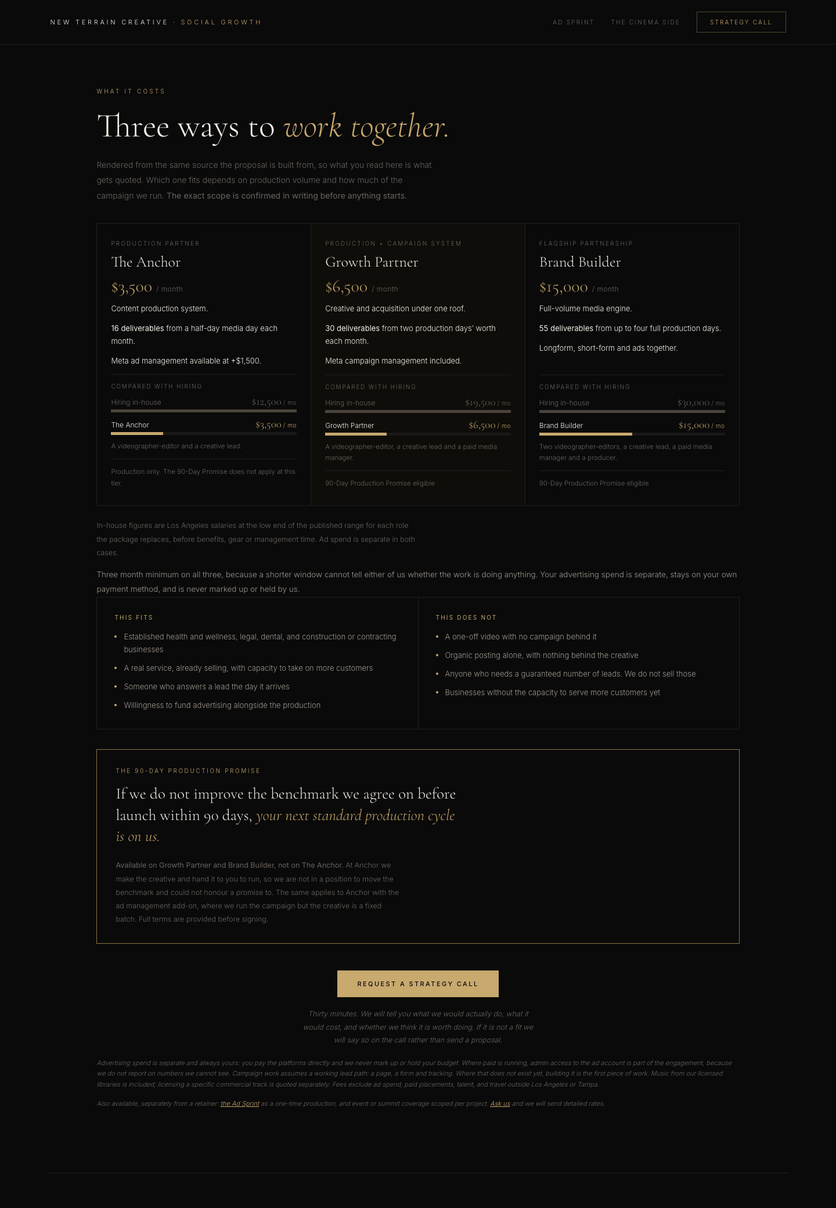
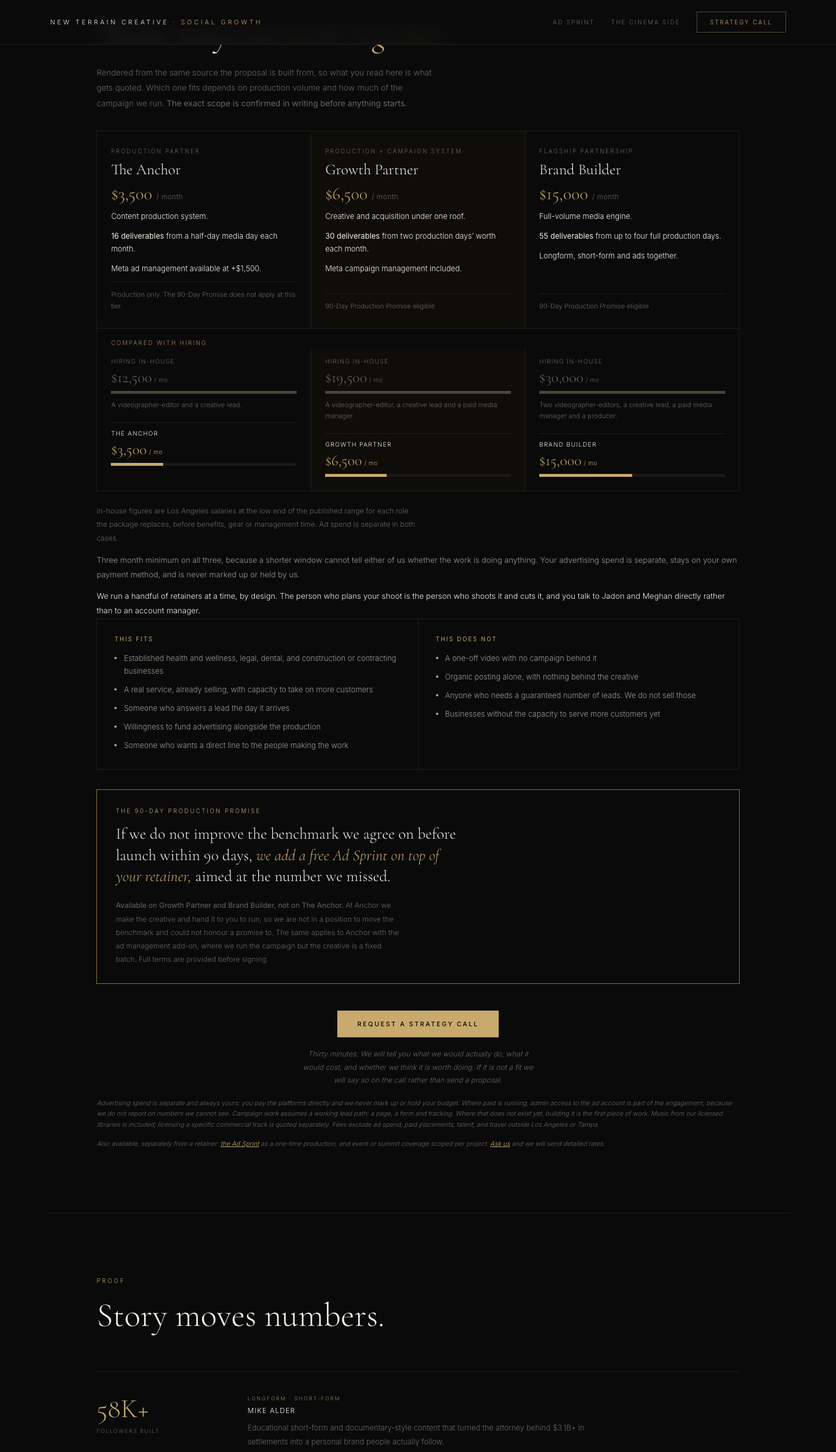
Say boutique on purpose, move the hiring comparison under the cards, make the promise pay out in a Sprint
Three changes to /grow and the homepage.

Boutique by design. The homepage comparison table gains a row against
the agency ("one of forty accounts") answered by "a handful of clients
at a time, on purpose"; /grow states the same under the pricing notes,
paired with the mechanism (the person who plans the shoot shoots and
cuts it, no account manager), and the fit block asks for someone who
wants a direct line. Declared in offer.js as `boutique`, with the two
copy rules and the list of mechanisms that are true today. The retainer
ceiling stays unquantified until there is one we will hold.

Hiring comparison out of the tier cards. Inside the card the payroll
figure read as part of the package. It now renders as its own strip
under the grid, one column per tier, stacked: what hiring costs, then
the package and our price. The heading sits outside the grid so the
strip keeps the cards' column count at every width.

Promise remedy. "Your next standard production cycle is on us" was a
free month of production, at Brand Builder four days and 55 pieces. The
remedy is now one Ad Sprint at The Eight scope, on top of the retainer,
aimed at the missed benchmark, on both eligible tiers. Changed in
offer.js, /grow, /about and the terms draft, where it also closes the
open question on a maximum value: a defined product caps itself.

diff --git a/grow.html b/grow.html
@@ -426,25 +426,40 @@
   .tier-line b { color: var(--parchment); font-weight: 400; }
   .tier-meta { margin-top: auto; padding-top: 12px; border-top: 1px solid var(--line); font-size: 11.5px; line-height: 1.7; color: var(--muted); }
   .tier-promise { color: var(--gold-dim); }
-  /* Compared with hiring, rendered from offer.js inHouse.teams. A
-     two-row ledger with bars scaled to the amounts, so the payroll
-     figure reads as the thing our price is measured against, not as a
-     second price. Payroll row dim, our row gold. */
-  .cmp { margin-top: auto; padding-top: 14px; border-top: 1px solid var(--line); display: flex; flex-direction: column; gap: 10px; }
-  .cmp-k { font-size: 10px; letter-spacing: .18em; text-transform: uppercase; color: var(--muted); }
-  .cmp-row { display: grid; grid-template-columns: 1fr auto; align-items: baseline; row-gap: 5px; column-gap: 12px; }
-  .cmp-label { font-size: 12px; color: var(--muted); }
-  .cmp-amt { font-family: var(--display); font-size: 19px; font-weight: 300; line-height: 1; color: var(--muted); white-space: nowrap; }
-  .cmp-amt small { font-family: var(--body); font-size: 10px; letter-spacing: .06em; margin-left: 3px; }
-  .cmp-bar { grid-column: 1 / -1; height: 5px; background: #1a1815; position: relative; }
+  /* Compared with hiring, rendered from offer.js inHouse.teams into a
+     strip of its own directly under the tier grid, one column per tier.
+     It used to sit inside each card, where the payroll figure read as
+     part of the package. Each column stacks: what hiring costs, then the
+     package name, then our price. Payroll dim, ours gold. */
+  .cmp-grid {
+    display: grid;
+    grid-template-columns: repeat(auto-fit, minmax(240px, 1fr));
+    gap: 1px;
+    background: var(--line);
+    border: 1px solid var(--line);
+    border-top: none;
+  }
+  /* The heading sits outside the grid on purpose: a spanning cell would
+     force the track count up and the columns would stop lining up under
+     the tier cards. Kept out of the grid, both use the same auto-fit rule
+     and so always agree on the column count. */
+  .cmp-head { background: var(--black); border: 1px solid var(--line); border-top: none; border-bottom: none; padding: 18px 24px 4px; font-size: 10px; letter-spacing: .22em; text-transform: uppercase; color: var(--gold); opacity: .8; }
+  .cmp-col { background: var(--black); padding: 16px 24px 24px; display: flex; flex-direction: column; gap: 6px; }
+  .cmp-col--mid { background: #0f0d09; }
+  .cmp-label { font-size: 10.5px; letter-spacing: .12em; text-transform: uppercase; color: var(--muted); }
+  .cmp-amt { font-family: var(--display); font-size: 26px; font-weight: 300; line-height: 1; color: var(--muted); white-space: nowrap; margin-top: 2px; }
+  .cmp-amt small { font-family: var(--body); font-size: 10px; letter-spacing: .06em; margin-left: 4px; text-transform: none; }
+  .cmp-bar { height: 5px; background: #1a1815; position: relative; margin-top: 4px; }
   .cmp-bar::after { content: ''; position: absolute; top: 0; left: 0; bottom: 0; width: var(--w, 0%); background: #4a443b; }
-  .cmp-row--us .cmp-label { color: var(--parchment); }
-  .cmp-row--us .cmp-amt { color: var(--gold); }
-  .cmp-row--us .cmp-bar::after { background: var(--gold); }
-  .cmp-why { font-size: 11.5px; line-height: 1.65; color: var(--muted); }
-  .cmp + .tier-meta { margin-top: 0; }
+  .cmp-why { font-size: 11.5px; line-height: 1.65; color: var(--muted); margin-top: 4px; }
+  .cmp-us { margin-top: 14px; padding-top: 12px; border-top: 1px solid var(--line); display: flex; flex-direction: column; gap: 6px; }
+  .cmp-us .cmp-label { color: var(--parchment); }
+  .cmp-us .cmp-amt { color: var(--gold); }
+  .cmp-us .cmp-bar::after { background: var(--gold); }
+  @media (max-width: 720px) { .cmp-col { padding: 14px 20px 22px; } .cmp-head { padding: 16px 20px 2px; } }
   .anchor-basis { margin: 22px 0 0; font-size: 12.5px; line-height: 1.85; color: var(--muted); max-width: 72ch; }
   .anchor-basis + .invest-note { margin-top: 14px; }
+  .invest-note--boutique { margin-top: 12px; color: var(--parchment); }
   @media (max-width: 720px) { .tier { padding: 24px 20px; } }
 
   .invest-fit {
@@ -1530,13 +1545,21 @@
        object /growth-guide reads. One definition, two depths: this page
        qualifies, the guide closes. Do not hard-code a figure here. -->
   <div class="tiers reveal" id="tiers"></div>
+  <!-- Compared with hiring: rendered by the same script as the cards,
+       one column per tier, from assets/offer.js inHouse. -->
+  <div class="cmp-grid reveal" id="tiers-cmp"></div>
 
-  <!-- The "hired in-house" figure on each card is what the same output
-       costs as payroll. Figures come from assets/offer.js inHouse; the
-       basis is stated here so nobody has to guess what they include. -->
+  <!-- The basis of the in-house figures is stated here so nobody has to
+       guess what they include. -->
   <p class="anchor-basis reveal">In-house figures are Los Angeles salaries at the low end of the published range for each role the package replaces, before benefits, gear or management time. Ad spend is separate in both cases.</p>
 
   <p class="invest-note reveal">Three month minimum on all three, because a shorter window cannot tell either of us whether the work is doing anything. Your advertising spend is separate, stays on your own payment method, and is never marked up or held by us.</p>
+
+  <!-- Boutique by design. The claim is paired with its mechanism on
+       purpose (offer.js boutique): the person who plans the shoot is the
+       person who shoots and cuts it, and there is no account manager.
+       "A handful" is unquantified until there is a ceiling we will hold. -->
+  <p class="invest-note invest-note--boutique reveal">We run a handful of retainers at a time, by design. The person who plans your shoot is the person who shoots it and cuts it, and you talk to Jadon and Meghan directly rather than to an account manager.</p>
 
   <div class="invest-fit reveal">
     <div class="invest-fit-col">
@@ -1546,6 +1569,7 @@
         <li>A real service, already selling, with capacity to take on more customers</li>
         <li>Someone who answers a lead the day it arrives</li>
         <li>Willingness to fund advertising alongside the production</li>
+        <li>Someone who wants a direct line to the people making the work</li>
       </ul>
     </div>
     <div class="invest-fit-col">
@@ -1562,7 +1586,7 @@
 
   <div class="promise reveal">
     <div class="promise-head">The 90-Day Production Promise</div>
-    <p class="promise-claim">If we do not improve the benchmark we agree on before launch within 90 days, <em>your next standard production cycle is on us.</em></p>
+    <p class="promise-claim">If we do not improve the benchmark we agree on before launch within 90 days, <em>we add a free Ad Sprint on top of your retainer,</em> aimed at the number we missed.</p>
     <p class="promise-terms"><b>Available on Growth Partner and Brand Builder, not on The Anchor.</b> At Anchor we make the creative and hand it to you to run, so we are not in a position to move the benchmark and could not honour a promise to. The same applies to Anchor with the ad management add-on, where we run the campaign but the creative is a fixed batch. Full terms are provided before signing.</p>
   </div>
 
@@ -1940,31 +1964,41 @@ src="https://www.facebook.com/tr?id=1634935111618929&ev=PageView&noscript=1"></n
       var promise = t.productionPromiseEligible
         ? '<span class="tier-promise">90-Day Production Promise eligible</span>'
         : 'Production only. The 90-Day Promise does not apply at this tier.';
-      // Compared with hiring: a two-row ledger, payroll versus this
-      // package, bars scaled to the payroll total. Keyed by tier name in
-      // offer.js inHouse.teams; a tier without one renders without it.
-      var team = O.inHouse && O.inHouse.teams && O.inHouse.teams[t.name];
-      var anchor = team
-        ? '<div class="cmp">' +
-            '<span class="cmp-k">Compared with hiring</span>' +
-            '<div class="cmp-row"><span class="cmp-label">Hiring in-house</span>' +
-              '<span class="cmp-amt">' + O.fmt(team.teamMonthly) + '<small>/ mo</small></span>' +
-              '<span class="cmp-bar" style="--w:100%"></span></div>' +
-            '<div class="cmp-row cmp-row--us"><span class="cmp-label">' + t.name + '</span>' +
-              '<span class="cmp-amt">' + O.fmt(t.monthly) + '<small>/ mo</small></span>' +
-              '<span class="cmp-bar" style="--w:' + Math.round(t.monthly / team.teamMonthly * 100) + '%"></span></div>' +
-            '<p class="cmp-why">' + team.summary + '.</p>' +
-          '</div>'
-        : '';
       return '<div class="tier' + (i === 1 ? ' tier--mid' : '') + '">' +
                '<div class="tier-label">' + (t.label || '') + '</div>' +
                '<div class="tier-name">' + t.name + '</div>' +
                '<div class="tier-price">' + O.fmt(t.monthly) + ' <span>/ month</span></div>' +
                lines +
-               anchor +
                '<div class="tier-meta">' + promise + '</div>' +
              '</div>';
     }).join('');
+
+    // Compared with hiring. One column per tier, stacked: what the same
+    // output costs as payroll, then the package and our price, bars
+    // scaled to the payroll figure. Keyed by tier name in offer.js
+    // inHouse.teams; if any tier lacks one the strip is not rendered at
+    // all rather than rendered with a hole.
+    var cmpHost = document.getElementById('tiers-cmp');
+    var teams = O.inHouse && O.inHouse.teams;
+    var complete = teams && tiers.every(function (t) { return teams[t.name]; });
+    if (!cmpHost) return;
+    if (!complete) { cmpHost.remove(); return; }
+    cmpHost.insertAdjacentHTML('beforebegin', '<div class="cmp-head">Compared with hiring</div>');
+    cmpHost.innerHTML = tiers.map(function (t, i) {
+        var team = teams[t.name];
+        var w = Math.round(t.monthly / team.teamMonthly * 100);
+        return '<div class="cmp-col' + (i === 1 ? ' cmp-col--mid' : '') + '">' +
+                 '<span class="cmp-label">Hiring in-house</span>' +
+                 '<span class="cmp-amt">' + O.fmt(team.teamMonthly) + '<small>/ mo</small></span>' +
+                 '<span class="cmp-bar" style="--w:100%"></span>' +
+                 '<p class="cmp-why">' + team.summary + '.</p>' +
+                 '<div class="cmp-us">' +
+                   '<span class="cmp-label">' + t.name + '</span>' +
+                   '<span class="cmp-amt">' + O.fmt(t.monthly) + '<small>/ mo</small></span>' +
+                   '<span class="cmp-bar" style="--w:' + w + '%"></span>' +
+                 '</div>' +
+               '</div>';
+      }).join('');
   })();
   (function () {
     if (!window.ntc) return;

diff --git a/about.html b/about.html
@@ -167,7 +167,7 @@ src="https://www.facebook.com/tr?id=1634935111618929&ev=PageView&noscript=1"></n
 <p>Retainer tiers, one-time production prices and the add-on rates are published on the website rather than quoted privately after a discovery call. Retainers are $3,500, $6,500 and $15,000 a month with a three-month minimum term. Each price is published beside what the same output would cost as in-house payroll, using Los Angeles salaries at the low end of the published range for each role, before benefits, gear or management: about $11,500 a month for the two roles behind an Ad Sprint, and about $12,500, $19,500 and $30,000 a month for the teams behind the three retainers.</p>
 
 <h3>A production promise instead of a performance guarantee</h3>
-<p>On the Growth Partner and Brand Builder tiers, if an agreed benchmark is not met across 90 days, the studio delivers one additional production cycle at no cost. The benchmark is chosen before launch and is never total views. No result, revenue or return on ad spend is guaranteed, and the studio says so in writing.</p>
+<p>On the Growth Partner and Brand Builder tiers, if an agreed benchmark is not met across 90 days, the studio adds one Ad Sprint of eight ad creatives at no cost on top of the retainer, aimed at that benchmark. The benchmark is chosen before launch and is never total views. No result, revenue or return on ad spend is guaranteed, and the studio says so in writing.</p>
 
 <h2>Who uses New Terrain Creative</h2>
 <ul>
@@ -209,7 +209,7 @@ src="https://www.facebook.com/tr?id=1634935111618929&ev=PageView&noscript=1"></n
 <p>A one-time Ad Sprint is delivered in under 14 days from shoot to finished assets. Retainer deliverables follow a monthly cycle built around the scheduled media day.</p>
 
 <h3>Communication and access</h3>
-<p>Clients work directly with the founder and the creative strategist rather than through an account manager. Campaign engagements require admin access to the client's ad account and access to lead, appointment and closed-sale outcomes so results can be measured against creative.</p>
+<p>Clients work directly with the founder and the creative strategist rather than through an account manager. The studio is boutique by design: it runs a small number of retainers at a time so that the person who plans a shoot is the person who shoots and cuts it. Campaign engagements require admin access to the client's ad account and access to lead, appointment and closed-sale outcomes so results can be measured against creative.</p>
 
 <h3>Ownership</h3>
 <p>On Ad Sprint engagements the client owns the footage and every cut. On bespoke Signature projects, usage and ownership are agreed in the project scope in writing before production begins.</p>
@@ -235,7 +235,7 @@ src="https://www.facebook.com/tr?id=1634935111618929&ev=PageView&noscript=1"></n
     <tr><th scope="row">Contract terms</th><td>Retainers have a three-month minimum term. The Ad Sprint is one-time with no retainer and no ongoing commitment</td></tr>
     <tr><th scope="row">Minimum ad spend</th><td>$1,500 per month, paid by the client directly to the advertising platform</td></tr>
     <tr><th scope="row">Turnaround</th><td>Ad Sprint delivered in under 14 days</td></tr>
-    <tr><th scope="row">Guarantee</th><td>90-Day Production Promise on Growth Partner and Brand Builder: one additional production cycle at no cost if an agreed pre-set benchmark is missed. No performance, revenue or ROAS guarantee</td></tr>
+    <tr><th scope="row">Guarantee</th><td>90-Day Production Promise on Growth Partner and Brand Builder: one Ad Sprint of eight ad creatives at no cost, on top of the retainer, if an agreed pre-set benchmark is missed. No performance, revenue or ROAS guarantee</td></tr>
     <tr><th scope="row">Communication</th><td>Email and scheduled video calls, directly with the founder and creative strategist</td></tr>
     <tr><th scope="row">Notable work</th><td>Gina Zapanta (podcast and short-form); Mike Alder / AlderTalk (educational short-form and documentary); SWFL Famous Installations (brand content and growth); Off Script (original video podcast)</td></tr>
     <tr><th scope="row">Recognition</th><td>Grand Jury Award, Gasparilla International Film Festival (<i>Off Rip</i>); Lois Weber Best Sci-Fi, FilmQuest (<i>Bot or Not</i>); Official Selections at Tribeca and Telluride</td></tr>
@@ -259,7 +259,7 @@ src="https://www.facebook.com/tr?id=1634935111618929&ev=PageView&noscript=1"></n
 <p>No. The Ad Sprint is a one-time engagement with no retainer and no ongoing commitment. Retainers carry a three-month minimum term.</p>
 
 <h3>Does New Terrain Creative guarantee results?</h3>
-<p>No. No lead volume, revenue or return on ad spend is guaranteed, and the studio states this in writing. On the two highest retainer tiers there is a 90-Day Production Promise: if an agreed benchmark set before launch is missed, one further production cycle is delivered at no cost. It is a promise about the work, never about the client's revenue.</p>
+<p>No. No lead volume, revenue or return on ad spend is guaranteed, and the studio states this in writing. On the two highest retainer tiers there is a 90-Day Production Promise: if an agreed benchmark set before launch is missed, one Ad Sprint of eight ad creatives is added at no cost on top of the retainer. It is a promise about the work, never about the client's revenue.</p>
 
 <h3>Who owns the footage?</h3>
 <p>On Ad Sprint engagements, the client owns the footage and every cut. On bespoke Signature projects, usage and ownership are agreed in the project scope in writing before anything is shot.</p>

diff --git a/assets/offer.js b/assets/offer.js
@@ -103,7 +103,16 @@
     productionPromise: {
       days: 90,
       // A promise about our work, never about the client's revenue.
-      remedy: 'one standard production cycle matching the contracted monthly allocation',
+      //
+      // Changed 26 Sep 2026. Was "one standard production cycle matching
+      // the contracted monthly allocation", which at Brand Builder rates
+      // is a month of four production days given away, and which the
+      // terms draft flagged as needing a cap nobody had set. The remedy
+      // is now a defined product: one Ad Sprint at The Eight scope, on
+      // top of the retainer, pointed at the benchmark that was missed.
+      // Bounded by the published Sprint price, so the cap sets itself.
+      remedy: 'one Ad Sprint (The Eight: 8 ad creatives) at no charge, on top of the contracted monthly allocation, aimed at the missed benchmark',
+      remedyProduct: 'adSprintEight',
       remedyIncludesRevisions: 1,
       isServiceCredit: true,      // never a cash refund
       stacksWithFoundingWaiver: false,
@@ -344,6 +353,38 @@
       resultGuaranteed: false
     },
 
+    /* ── Boutique, by design ──────────────────────────────────────────
+       Added 26 Sep 2026. Positioning decision: we say we are small on
+       purpose rather than hide it. Akoola sells scale, the content farms
+       sell volume; nobody in the lane sells a small roster as the reason
+       to buy. Until we scale, if we decide to, this is how we run.
+
+       Two rules for any copy that uses it. By design, never by default:
+       "a handful of clients at a time, on purpose", never "we are a
+       small business". And always paired with a mechanism from the list
+       below, or it is fluff.
+
+       maxActiveRetainers is null on purpose. A number is stronger, but
+       only one we will hold; a cap we would quietly raise teaches people
+       our caps mean nothing (see the removed application deadline above).
+       Set it when there is a real ceiling, and print it then.
+       ─────────────────────────────────────────────────────────────── */
+    boutique: {
+      byDesign: true,
+      maxActiveRetainers: null,
+      directAccess: ['Jadon Cal Fitzpatrick', 'Meghan Carrasquillo'],
+      accountManager: false,
+      // Mechanisms that are true today. Add to this list before claiming
+      // anything new in copy.
+      mechanisms: [
+        'The person who plans the shoot is the person who shoots and cuts it',
+        'Clients talk to the founder and the creative strategist directly',
+        'The Angle Call before any Sprint shoot',
+        'Monthly analytics and creative direction on every retainer',
+        'Weekly campaign management on Growth Partner and Brand Builder'
+      ]
+    },
+
     // ── Priority industries ───────────────────────────────────────────
     // Used to build the application's industry field. "Other" is accepted
     // but flagged as non-priority rather than hidden.
@@ -432,7 +473,9 @@
       // Withdrawn 13 Sep 2026. It was unbounded, its benchmark was
       // undefined, and it stacked on the Founding waived month. It must
       // not come back in any wording.
-      'a free shoot day if the creative does not beat your baseline'
+      'a free shoot day if the creative does not beat your baseline',
+      // Added 26 Sep 2026 with the boutique block.
+      'a client cap we would raise quietly, or a review cadence a tier does not include'
     ]
   };
 

diff --git a/index.html b/index.html
@@ -2083,13 +2083,14 @@ src="https://www.facebook.com/tr?id=1634935111618929&ev=PageView&noscript=1"></n
   <div class="section-title reveal">Why New Terrain?</div>
   <div class="vs-cols">
     <div class="vs-col reveal">
-      <div class="vs-col-title">The typical video guy</div>
+      <div class="vs-col-title">The typical video guy, or agency</div>
       <ul class="vs-list">
         <li><span class="vs-mark">✕</span>Shoots the footage, hands you a hard drive, disappears</li>
         <li><span class="vs-mark">✕</span>One deliverable per shoot; every cutdown costs extra</li>
         <li><span class="vs-mark">✕</span>You get files, not a plan</li>
         <li><span class="vs-mark">✕</span>A gear renter with a camera and a day rate</li>
         <li><span class="vs-mark">✕</span>Books out weeks ahead, ghosts on fast turnarounds</li>
+        <li><span class="vs-mark">✕</span>At an agency, one of forty accounts, handled by whoever is free that week</li>
       </ul>
     </div>
     <div class="vs-col vs-col--ntc reveal">
@@ -2100,6 +2101,7 @@ src="https://www.facebook.com/tr?id=1634935111618929&ev=PageView&noscript=1"></n
         <li><span class="vs-mark">✓</span>Every project starts knowing what it needs to say and who it needs to move</li>
         <li><span class="vs-mark">✓</span>A working filmmaker: festival wins and a feature streaming on Amazon, Apple, Tubi and Roku</li>
         <li><span class="vs-mark">✓</span>You never chase an edit, write a hook, or manage a freelancer again</li>
+        <li><span class="vs-mark">✓</span>A handful of clients at a time, on purpose. You work with Jadon and Meghan, not an account manager</li>
       </ul>
     </div>
   </div>

diff --git a/docs/terms/90-day-production-promise.md b/docs/terms/90-day-production-promise.md
@@ -10,6 +10,13 @@
 >
 > Drafted 12 September 2026. Supersedes the earlier total-views guarantee,
 > which is withdrawn and must not be reinstated in any form.
+>
+> **Remedy changed 26 September 2026.** Was one standard production
+> cycle matching the contracted monthly allocation. Now one Ad Sprint at
+> The Eight scope, on top of the retainer. A production cycle at Brand
+> Builder rates was a month of four production days given away, and
+> open question 2 below (a cap nobody had set) existed because of it. A
+> defined product bounds the exposure by its published price.
 
 ## 1 · Public language
 
@@ -17,23 +24,26 @@ Headline, verbatim, on `/grow`:
 
 > **THE 90-DAY PRODUCTION PROMISE**
 >
-> If, after 90 consecutive days, the campaign has not improved the primary
-> performance benchmark we agree upon during onboarding, the next standard
-> production cycle is on us.
+> If we do not improve the benchmark we agree on before launch within 90
+> days, we add a free Ad Sprint on top of your retainer, aimed at the
+> number we missed.
 
 Supporting sentence, permitted anywhere the short form is needed:
 
 > If the agreed campaign benchmark does not improve during the first 90
-> days, month four's standard production is on us.
+> days, we add an Ad Sprint, eight ad creatives, at no charge on top of
+> the retainer.
 
 Nothing else may be said publicly about this promise without the full
 terms available alongside it.
 
 ## 2 · What is being promised, in one line
 
-One further production cycle at no charge, if an agreed and measurable
-campaign benchmark has not improved over a complete, properly run 90-day
-period.
+One Ad Sprint at The Eight scope (eight ad creatives from one shoot, in
+every placement), at no charge and on top of the contracted monthly
+allocation, if an agreed and measurable campaign benchmark has not
+improved over a complete, properly run 90-day period. The Sprint is
+briefed against the benchmark that was missed.
 
 It is a promise about **our work**, not about the client's business
 outcome. That distinction is the whole design and every clause below
@@ -116,9 +126,12 @@ period.
 
 ## 5 · The remedy
 
-5.1 One defined standard production cycle, matching the contracted monthly
-production allocation, **subject to a maximum value documented in the
-agreement**.
+5.1 One Ad Sprint at The Eight scope as published on `/sprint` (eight ad
+creatives, one shoot on location, every placement, captions, colour and
+licensed music), delivered **on top of** the contracted monthly production
+allocation, not in place of it, and briefed against the missed benchmark.
+Its maximum value is the published price of The Eight, which serves as
+the documented cap.
 
 5.2 Includes the defined production component and **one** standard
 revision round.
@@ -131,8 +144,9 @@ purchases, and any third-party expense.
 not exchangeable for a fee reduction.
 
 5.5 **Cannot be stacked with the Founding Three waived first month.** A
-Founding Three client has already received a production cycle at no
-service charge; the promise does not entitle them to a second. This must
+Founding Three client has already received a month of production at no
+service charge; the promise does not entitle them to a second round of
+free work. This must
 be stated in the Founding Three agreement as well as here, because it is
 the term a founding client is most likely to be surprised by.
 
@@ -155,9 +169,11 @@ signed. A headline on a web page is not the term; it is a pointer to it.
    arguably in bad faith. A stated threshold is fairer and much harder to
    argue about later. This is a commercial decision before it is a legal
    one.
-2. **Maximum value.** Clause 5.1 requires a documented cap. No figure is
-   set. At Brand Builder rates an uncapped production cycle is a
-   materially different exposure than at Anchor.
+2. ~~**Maximum value.**~~ **Resolved 26 September 2026.** The remedy is
+   now a defined product, one Ad Sprint at The Eight scope, so its cap is
+   the published Sprint price on every tier. Counsel should confirm the
+   agreement references the scope by name rather than by price, so a
+   later price change does not reopen the term.
 3. **Who judges.** Nothing says who determines whether conditions 4.1 to
    4.6 were met, or what happens when the parties disagree.
 4. **Qualified.** Two eligible benchmarks turn on "qualified" leads. That

diff --git a/docs/pricing/package-scopes.md b/docs/pricing/package-scopes.md
@@ -71,7 +71,9 @@ in one monthly production system.
 ## 1A · In-house comparison, published beside every price
 
 > Added 26 September 2026. Lives in `assets/offer.js` `inHouse`, rendered
-> on `/grow` (per tier card), `/sprint` (ledger under the price cards),
+> on `/grow` (a strip under the tier grid, one column per tier; it was
+> inside the cards first, where the payroll figure read as part of the
+> package), `/sprint` (ledger under the price cards),
 > the homepage engage cards, and `/about`. `scripts/check-offer.py`
 > treats the role rates and team totals as declared figures.
 >
